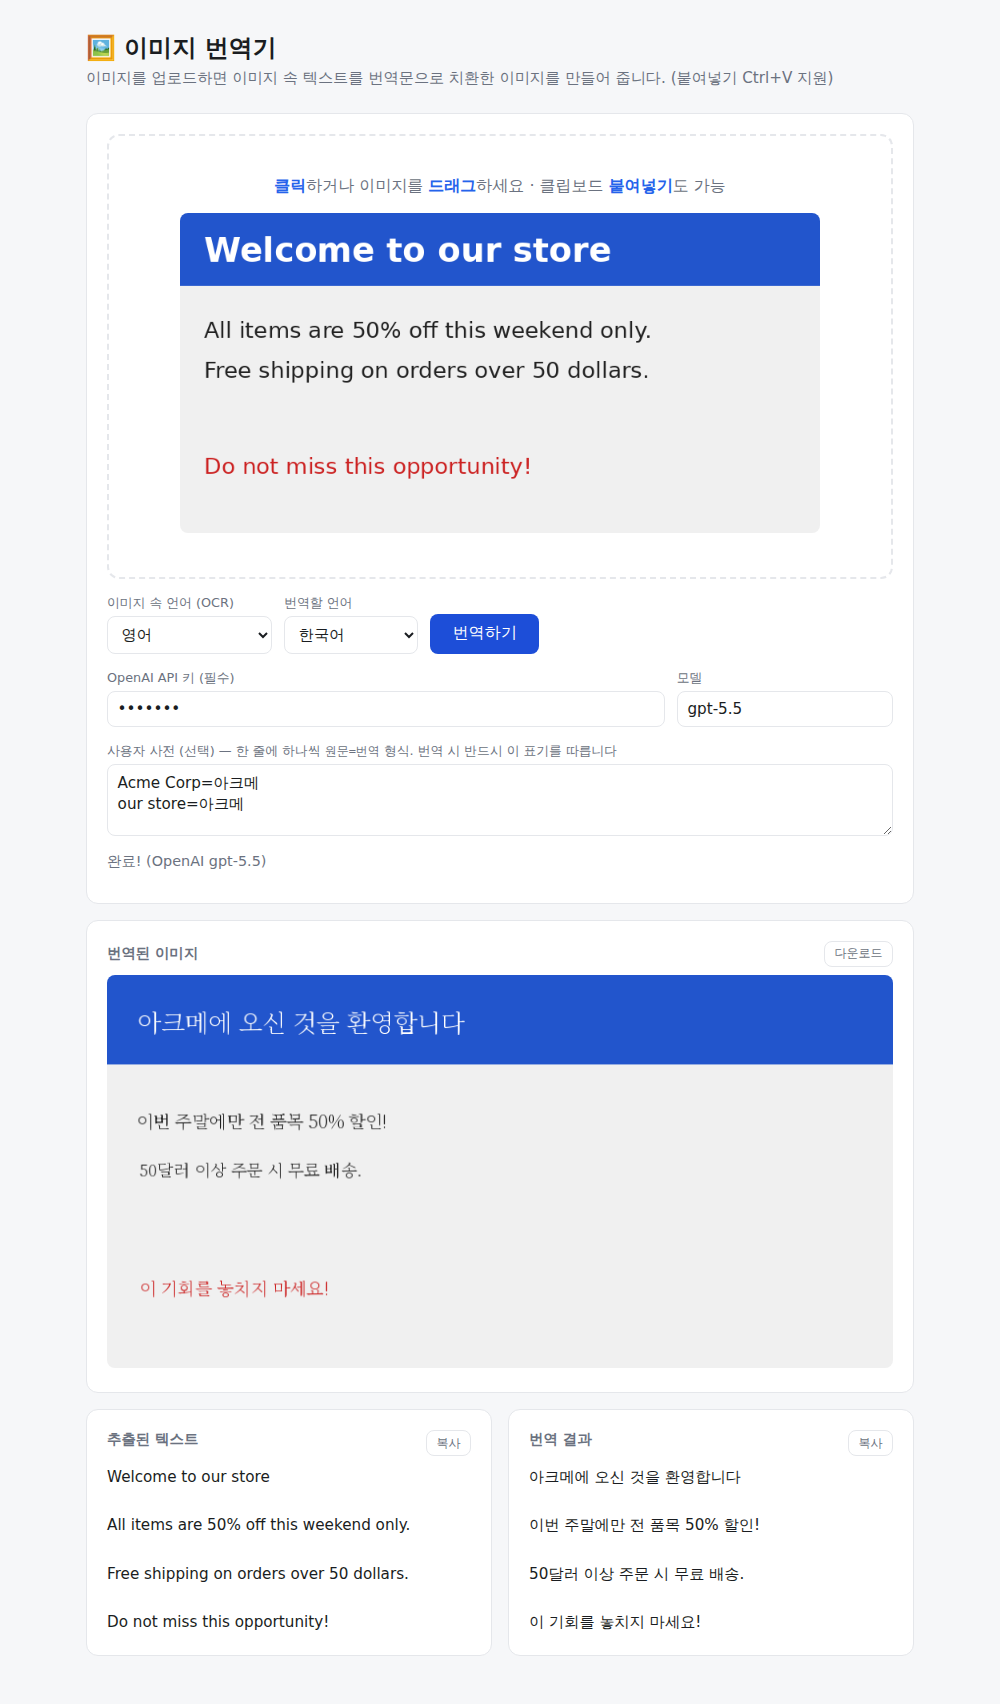
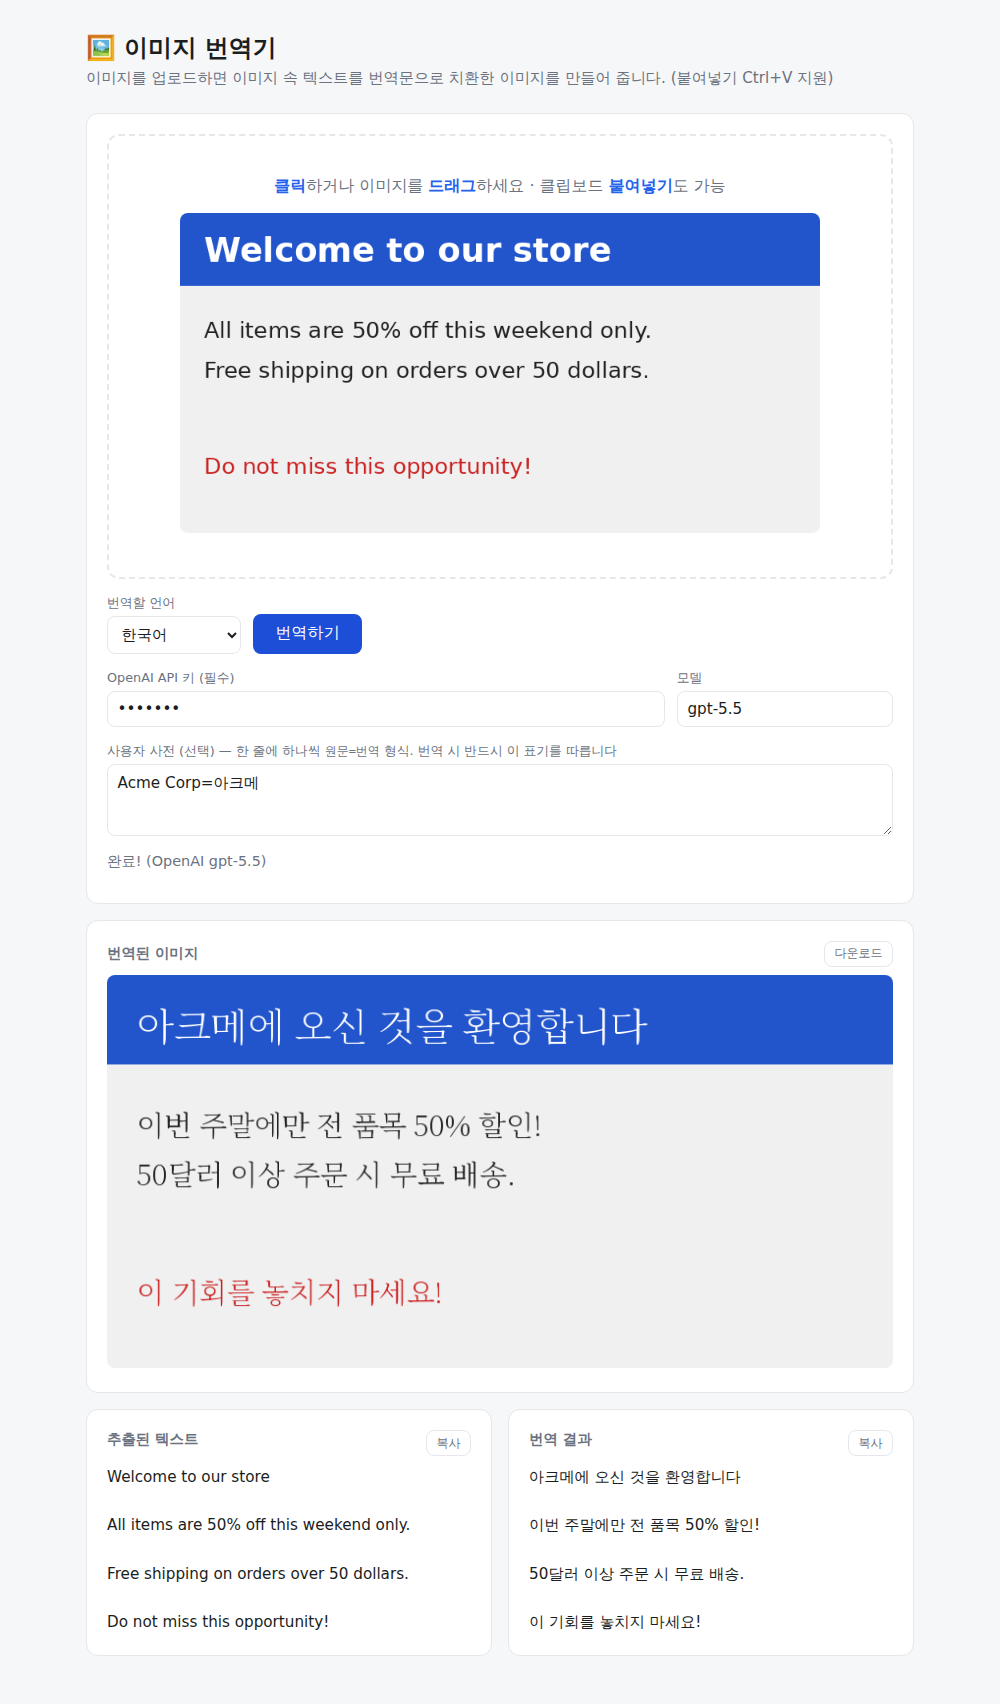
Tesseract 제거 — 이미지와 사용자 사전만 GPT에 보내는 방식으로 단순화
- GPT가 텍스트 인식·번역·위치(0~1000 정규화 바운딩 박스)를 한 번에 응답
- OCR 언어 선택칸 제거, pytesseract 의존성 제거
- exe 빌드에서 Tesseract 번들 제거 (빌드 단순화, 파일 크기 대폭 감소)
- 좌표 검증(범위 클램프, 최소 크기)과 블록 수 유연 처리

Claude-Session: https://claude.ai/code/session_01RyxZLcr53L1DN6GBKJRxWG

diff --git a/app/static/index.html b/app/static/index.html
@@ -78,16 +78,6 @@
     <input type="file" id="fileInput" accept="image/*">
     <div class="controls">
       <div>
-        <label for="ocrLang">이미지 속 언어 (OCR)</label>
-        <select id="ocrLang">
-          <option value="auto">자동 (한/영/일/중)</option>
-          <option value="eng">영어</option>
-          <option value="kor">한국어</option>
-          <option value="jpn">일본어</option>
-          <option value="chi_sim">중국어 (간체)</option>
-        </select>
-      </div>
-      <div>
         <label for="targetLang">번역할 언어</label>
         <select id="targetLang">
           <option value="ko">한국어</option>
@@ -190,7 +180,6 @@ go.addEventListener('click', async () => {
 
   const form = new FormData();
   form.append('file', currentFile);
-  form.append('ocr_lang', document.getElementById('ocrLang').value);
   form.append('target_lang', document.getElementById('targetLang').value);
   const apiKey = document.getElementById('apiKey').value.trim();
   if (!apiKey) {

diff --git a/app/main.py b/app/main.py
@@ -1,4 +1,7 @@
-"""이미지 업로드 → OpenAI(GPT) API로 이미지 번역 → 번역문 치환 이미지 생성 웹 앱."""
+"""이미지 업로드 → OpenAI(GPT) API로 이미지 번역 → 번역문 치환 이미지 생성 웹 앱.
+
+이미지와 사용자 사전만 GPT에 보내면 텍스트 인식·번역·위치 추정까지 한 번에 받아온다.
+"""
 
 import base64
 import io
@@ -6,27 +9,17 @@ import json
 import os
 from pathlib import Path
 
-import pytesseract
 import requests
 from fastapi import FastAPI, File, Form, HTTPException, UploadFile
 from fastapi.responses import FileResponse
 from fastapi.staticfiles import StaticFiles
 from PIL import Image, ImageOps
 
-from app.render import extract_paragraphs, render_translated
+from app.render import render_translated
 
 app = FastAPI(title="Image Translator")
 
 STATIC_DIR = Path(__file__).parent / "static"
-
-# OCR(텍스트 위치 추출)에 사용할 언어 조합 (Tesseract 언어 코드)
-OCR_LANGS = {
-    "auto": "kor+eng+jpn+chi_sim",
-    "kor": "kor+eng",
-    "eng": "eng",
-    "jpn": "jpn+eng",
-    "chi_sim": "chi_sim+eng",
-}
 
 MAX_UPLOAD_BYTES = 10 * 1024 * 1024  # 10MB
 
@@ -44,36 +37,49 @@ LANG_NAMES = {
     "de": "German",
 }
 
-TRANSLATION_SCHEMA = {
+# GPT가 블록별 원문/번역/위치를 정해진 형식으로만 응답하도록 강제한다
+RESPONSE_SCHEMA = {
     "type": "json_schema",
     "json_schema": {
-        "name": "translations",
+        "name": "image_translation",
         "strict": True,
         "schema": {
             "type": "object",
             "properties": {
-                "translations": {
+                "blocks": {
                     "type": "array",
-                    "items": {"type": "string"},
+                    "items": {
+                        "type": "object",
+                        "properties": {
+                            "text": {"type": "string"},
+                            "translation": {"type": "string"},
+                            "x0": {"type": "integer"},
+                            "y0": {"type": "integer"},
+                            "x1": {"type": "integer"},
+                            "y1": {"type": "integer"},
+                            "lines": {"type": "integer"},
+                        },
+                        "required": ["text", "translation", "x0", "y0", "x1", "y1", "lines"],
+                        "additionalProperties": False,
+                    },
                 }
             },
-            "required": ["translations"],
+            "required": ["blocks"],
             "additionalProperties": False,
         },
     },
 }
 
 
-def translate_blocks_with_gpt(
+def translate_image_with_gpt(
     image_bytes: bytes,
     mime: str,
-    blocks: list[str],
     target_lang: str,
     api_key: str,
     model: str,
     glossary: str,
-) -> list[str]:
-    """이미지와 OCR 블록을 GPT에 보내 블록별 번역을 받아온다."""
+) -> list[dict]:
+    """이미지를 GPT에 보내 텍스트 블록(원문/번역/위치) 목록을 받아온다."""
     lang_name = LANG_NAMES.get(target_lang, target_lang)
 
     glossary_part = ""
@@ -83,17 +89,18 @@ def translate_blocks_with_gpt(
             + glossary.strip()
         )
 
-    numbered = "\n".join(f"[{i}] {t}" for i, t in enumerate(blocks))
     instruction = (
-        f"The attached image contains text. Below are {len(blocks)} text blocks "
-        "extracted by OCR, in reading order. Look at the image to understand context "
-        "and fix any obvious OCR mistakes, then translate each block into "
-        f"{lang_name}.{glossary_part}\n\n"
-        "Return JSON with a \"translations\" array containing exactly "
-        f"{len(blocks)} strings, where translations[i] is the translation of block [i]. "
-        "Keep numbers, prices, and proper nouns accurate. Output only the translation "
-        "for each block, nothing else.\n\n"
-        f"Text blocks:\n{numbered}"
+        "Find every distinct text block in the attached image (a block is a title, "
+        "a paragraph, a label, a button caption, etc.). For each block report:\n"
+        f"- text: the original text exactly as written\n"
+        f"- translation: the text translated into {lang_name}. Keep numbers, prices, "
+        "and proper nouns accurate\n"
+        "- x0, y0, x1, y1: a tight bounding box around the text, in a normalized "
+        "coordinate system where (0,0) is the top-left corner of the image and "
+        "(1000,1000) is the bottom-right corner\n"
+        "- lines: how many visual lines the original text occupies\n"
+        "List the blocks in reading order. Do not invent text that is not in the image."
+        f"{glossary_part}"
     )
 
     image_b64 = base64.b64encode(image_bytes).decode()
@@ -102,11 +109,11 @@ def translate_blocks_with_gpt(
         headers={"Authorization": f"Bearer {api_key}"},
         json={
             "model": model,
-            "response_format": TRANSLATION_SCHEMA,
+            "response_format": RESPONSE_SCHEMA,
             "messages": [
                 {
                     "role": "system",
-                    "content": "You are a professional translator. Translate text found in images accurately and naturally.",
+                    "content": "You are a professional translator that reads text in images precisely, including its position.",
                 },
                 {
                     "role": "user",
@@ -120,7 +127,7 @@ def translate_blocks_with_gpt(
                 },
             ],
         },
-        timeout=120,
+        timeout=180,
     )
     if resp.status_code != 200:
         try:
@@ -130,11 +137,33 @@ def translate_blocks_with_gpt(
         raise RuntimeError(f"OpenAI API 오류 (HTTP {resp.status_code}): {detail}")
 
     content = resp.json()["choices"][0]["message"]["content"]
-    translations = json.loads(content)["translations"]
-    # 개수가 어긋나면 부족분은 원문 유지, 초과분은 버린다
-    translations = [str(t) for t in translations[: len(blocks)]]
-    translations += blocks[len(translations):]
-    return translations
+    return json.loads(content)["blocks"]
+
+
+def blocks_to_paragraphs(blocks: list[dict], width: int, height: int) -> list[dict]:
+    """GPT의 정규화 좌표(0~1000)를 픽셀 좌표로 바꿔 렌더링용 문단 목록을 만든다."""
+    paragraphs = []
+    for b in blocks:
+        text = str(b.get("text", "")).strip()
+        translated = str(b.get("translation", "")).strip()
+        if not text or not translated:
+            continue
+        x0 = round(min(b["x0"], b["x1"]) / 1000 * width)
+        x1 = round(max(b["x0"], b["x1"]) / 1000 * width)
+        y0 = round(min(b["y0"], b["y1"]) / 1000 * height)
+        y1 = round(max(b["y0"], b["y1"]) / 1000 * height)
+        x0, y0 = max(0, x0), max(0, y0)
+        x1, y1 = min(width, x1), min(height, y1)
+        if x1 - x0 < 4 or y1 - y0 < 4:
+            continue
+        lines = max(1, int(b.get("lines", 1)))
+        paragraphs.append({
+            "text": text,
+            "translated": translated,
+            "box": (x0, y0, x1, y1),
+            "line_height": (y1 - y0) / lines,
+        })
+    return paragraphs
 
 
 @app.get("/")
@@ -145,7 +174,6 @@ async def index() -> FileResponse:
 @app.post("/api/translate")
 async def translate_image(
     file: UploadFile = File(...),
-    ocr_lang: str = Form("auto"),
     target_lang: str = Form("ko"),
     api_key: str = Form(""),
     model: str = Form(DEFAULT_MODEL),
@@ -169,21 +197,10 @@ async def translate_image(
     except Exception:
         raise HTTPException(status_code=400, detail="이미지 파일을 열 수 없습니다. PNG/JPG 등 이미지 형식인지 확인해 주세요.")
 
-    lang = OCR_LANGS.get(ocr_lang, OCR_LANGS["auto"])
     try:
-        processed, scale = preprocess(image)
-        paragraphs = extract_paragraphs(processed, lang=lang, scale=scale)
-    except pytesseract.TesseractError as e:
-        raise HTTPException(status_code=500, detail=f"OCR 실패: {e}")
-
-    if not paragraphs:
-        return {"extracted": "", "translated": "", "image": "", "engine": "", "message": "이미지에서 텍스트를 찾지 못했습니다."}
-
-    try:
-        translations = translate_blocks_with_gpt(
+        blocks = translate_image_with_gpt(
             image_bytes=data,
             mime=file.content_type or "image/png",
-            blocks=[p["text"] for p in paragraphs],
             target_lang=target_lang,
             api_key=api_key,
             model=model,
@@ -194,8 +211,9 @@ async def translate_image(
     except Exception as e:
         raise HTTPException(status_code=502, detail=f"번역 실패: {e}")
 
-    for p, t in zip(paragraphs, translations):
-        p["translated"] = t
+    paragraphs = blocks_to_paragraphs(blocks, image.width, image.height)
+    if not paragraphs:
+        return {"extracted": "", "translated": "", "image": "", "engine": f"OpenAI {model}", "message": "이미지에서 텍스트를 찾지 못했습니다."}
 
     rendered = render_translated(image, paragraphs)
     buf = io.BytesIO()
@@ -209,19 +227,6 @@ async def translate_image(
         "engine": f"OpenAI {model}",
         "message": "",
     }
-
-
-def preprocess(image: Image.Image) -> tuple[Image.Image, float]:
-    """OCR 전처리: 그레이스케일 + 소형 이미지 확대. 적용된 배율도 반환한다."""
-    gray = image.convert("L")
-    scale = 1.0
-    if min(gray.size) < 600:
-        scale = 600 / min(gray.size)
-        gray = gray.resize(
-            (round(gray.width * scale), round(gray.height * scale)),
-            Image.LANCZOS,
-        )
-    return gray, scale
 
 
 app.mount("/static", StaticFiles(directory=STATIC_DIR), name="static")

diff --git a/app/render.py b/app/render.py
@@ -1,9 +1,8 @@
-"""OCR 텍스트 블록 추출과 번역문 치환 렌더링."""
+"""텍스트 블록 자리에 번역문을 그려 넣는 치환 렌더링."""
 
 import statistics
 from pathlib import Path
 
-import pytesseract
 from PIL import Image, ImageDraw, ImageFont
 
 # 번역문 렌더링 폰트: Noto Serif KR로 통일 (번들 파일이 없을 때만 시스템 폰트 폴백)
@@ -15,56 +14,11 @@ FONT_CANDIDATES = [
     Path("/usr/share/fonts/opentype/unifont/unifont.otf"),
 ]
 
-MIN_CONFIDENCE = 30  # 이 미만 평균 신뢰도의 블록은 노이즈로 간주
-
-
 def find_font() -> str:
     for path in FONT_CANDIDATES:
         if path.exists():
             return str(path)
     raise RuntimeError("한글을 지원하는 폰트를 찾지 못했습니다.")
-
-
-def extract_paragraphs(image: Image.Image, lang: str, scale: float = 1.0) -> list[dict]:
-    """문단 단위 텍스트 블록을 추출한다. 좌표는 원본 이미지 기준으로 환산."""
-    data = pytesseract.image_to_data(image, lang=lang, output_type=pytesseract.Output.DICT)
-    groups: dict[tuple, dict] = {}
-    for i, raw in enumerate(data["text"]):
-        word = raw.strip()
-        conf = float(data["conf"][i])
-        if not word or conf < 0:
-            continue
-        key = (data["block_num"][i], data["par_num"][i])
-        g = groups.setdefault(key, {"words": [], "confs": []})
-        g["words"].append({
-            "text": word,
-            "line": data["line_num"][i],
-            "x": data["left"][i],
-            "y": data["top"][i],
-            "w": data["width"][i],
-            "h": data["height"][i],
-        })
-        g["confs"].append(conf)
-
-    paragraphs = []
-    for g in groups.values():
-        if statistics.mean(g["confs"]) < MIN_CONFIDENCE:
-            continue
-        words = g["words"]
-        lines: dict[int, list[str]] = {}
-        for w in words:
-            lines.setdefault(w["line"], []).append(w["text"])
-        text = "\n".join(" ".join(ws) for _, ws in sorted(lines.items()))
-        x0 = min(w["x"] for w in words)
-        y0 = min(w["y"] for w in words)
-        x1 = max(w["x"] + w["w"] for w in words)
-        y1 = max(w["y"] + w["h"] for w in words)
-        paragraphs.append({
-            "text": text,
-            "box": tuple(round(v / scale) for v in (x0, y0, x1, y1)),
-            "line_height": statistics.median(w["h"] for w in words) / scale,
-        })
-    return paragraphs
 
 
 def _color_distance(a: tuple, b: tuple) -> float:
@@ -143,7 +97,7 @@ def render_translated(image: Image.Image, paragraphs: list[dict]) -> Image.Image
             continue
         x0, y0, x1, y1 = p["box"]
         bg, fg = estimate_colors(out, p["box"])
-        pad = max(2, round(p["line_height"] * 0.15))
+        pad = min(12, max(2, round(p["line_height"] * 0.15)))
         draw.rectangle((x0 - pad, y0 - pad, x1 + pad, y1 + pad), fill=bg)
         font, lines, line_h = _fit_text(
             draw, translated, x1 - x0, y1 - y0, font_path, p["line_height"] * 0.85

diff --git a/desktop.py b/desktop.py
@@ -1,30 +1,12 @@
 """데스크톱(exe) 실행용 런처: 서버를 띄우고 기본 브라우저를 자동으로 연다."""
 
-import os
 import socket
-import sys
 import threading
 import webbrowser
-from pathlib import Path
 
+import uvicorn
 
-def resource_path(rel: str) -> Path:
-    """PyInstaller 번들 내부 리소스 경로 (개발 환경에서는 프로젝트 루트)."""
-    base = getattr(sys, "_MEIPASS", None)
-    return (Path(base) if base else Path(__file__).parent) / rel
-
-
-# 번들된 Tesseract가 있으면 그것을 사용 (없으면 시스템 설치본 사용)
-import pytesseract  # noqa: E402
-
-_bundled_tesseract = resource_path("tesseract/tesseract.exe")
-if _bundled_tesseract.exists():
-    pytesseract.pytesseract.tesseract_cmd = str(_bundled_tesseract)
-    os.environ["TESSDATA_PREFIX"] = str(resource_path("tesseract/tessdata"))
-
-import uvicorn  # noqa: E402
-
-from app.main import app  # noqa: E402
+from app.main import app
 
 
 def find_free_port(preferred: int = 8000) -> int:
